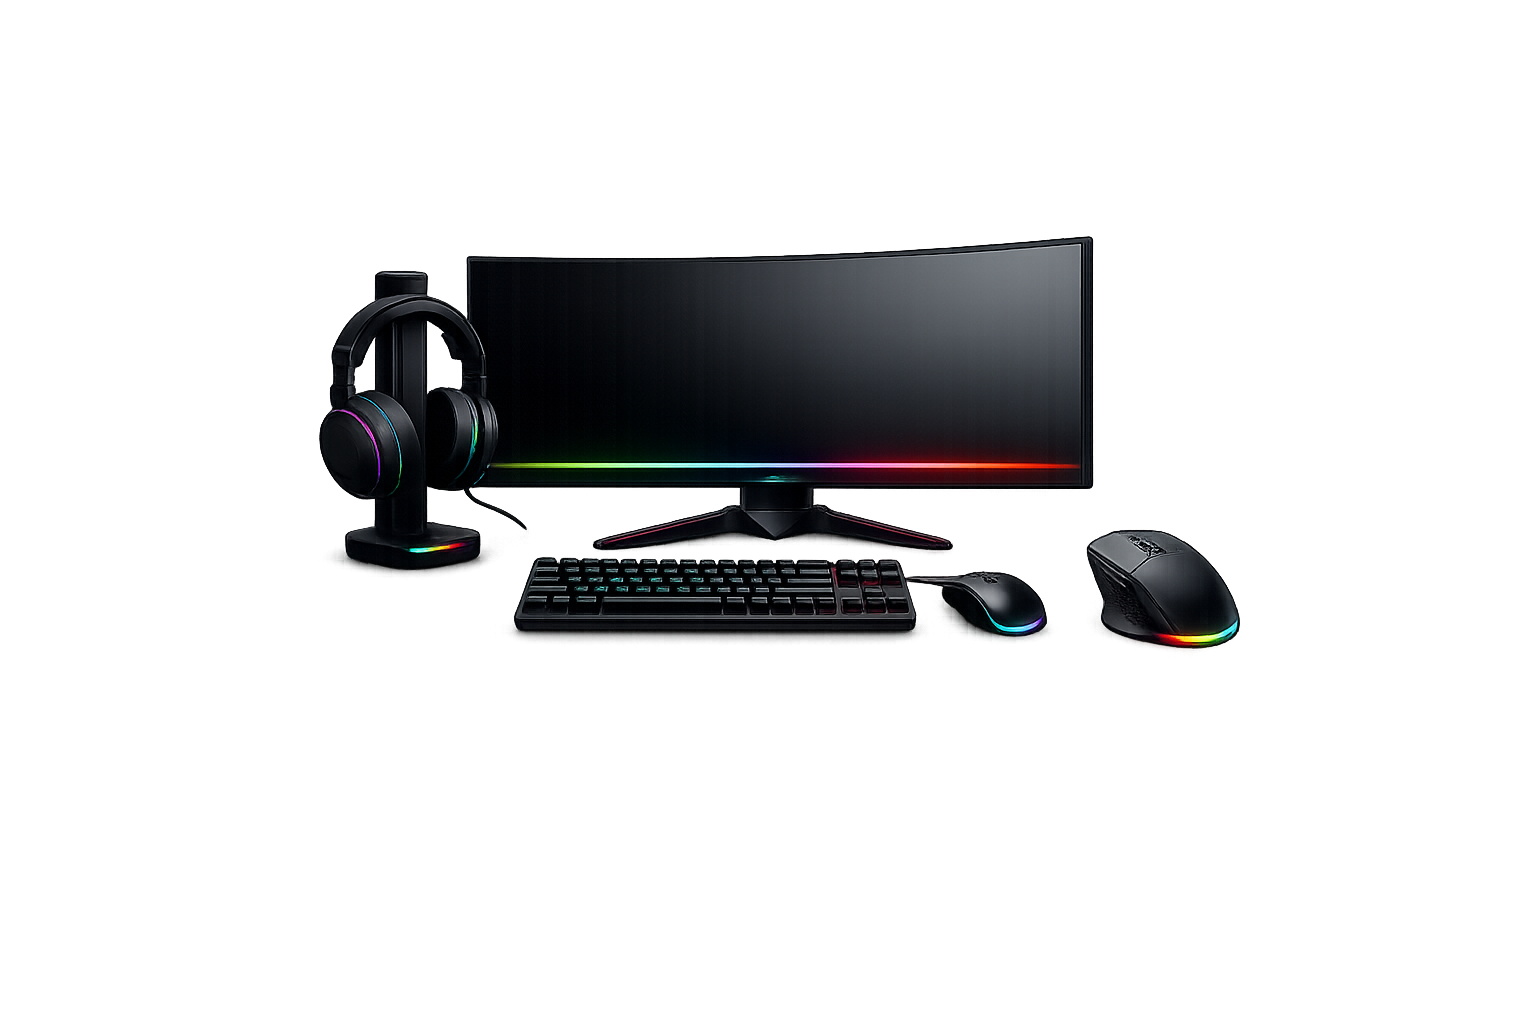
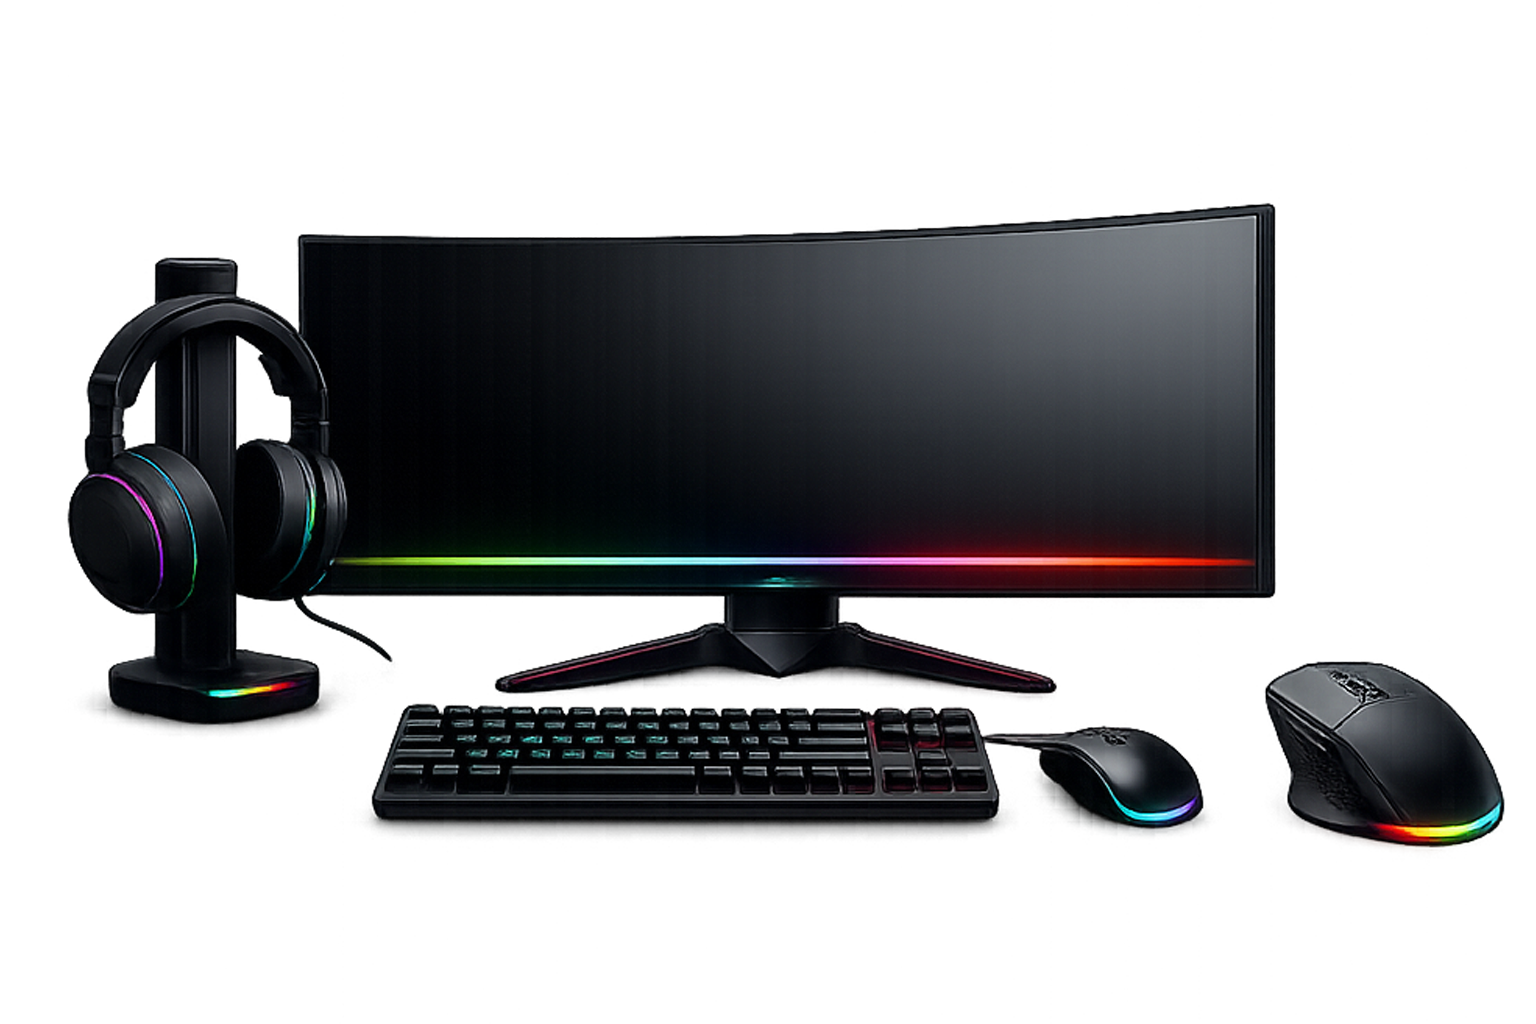
hero stilus kesz

Changed region(s): [[0.0312, 0.1875, 0.8438, 0.8125], [0.8125, 0.625, 1.0, 0.8438]]

diff --git a/src/style.css b/src/style.css
@@ -50,6 +50,7 @@ body {
   color: var(--text-color-primary);
   font-family: var(--text-font-family);
   margin: 0;
+  overflow-x: hidden;
 }
 
 h1 {
@@ -154,6 +155,7 @@ button {
   justify-content: space-around;
   width: 100%;
   height: 100vh;
+  padding: 100px;
 
   .hero-section {
     max-width: 50%;
@@ -162,6 +164,9 @@ button {
     }
     .hero-subtitle {
       color: var(--text-color-secondry);
+    }
+    img {
+      width: 100%;
     }
   }
 }
